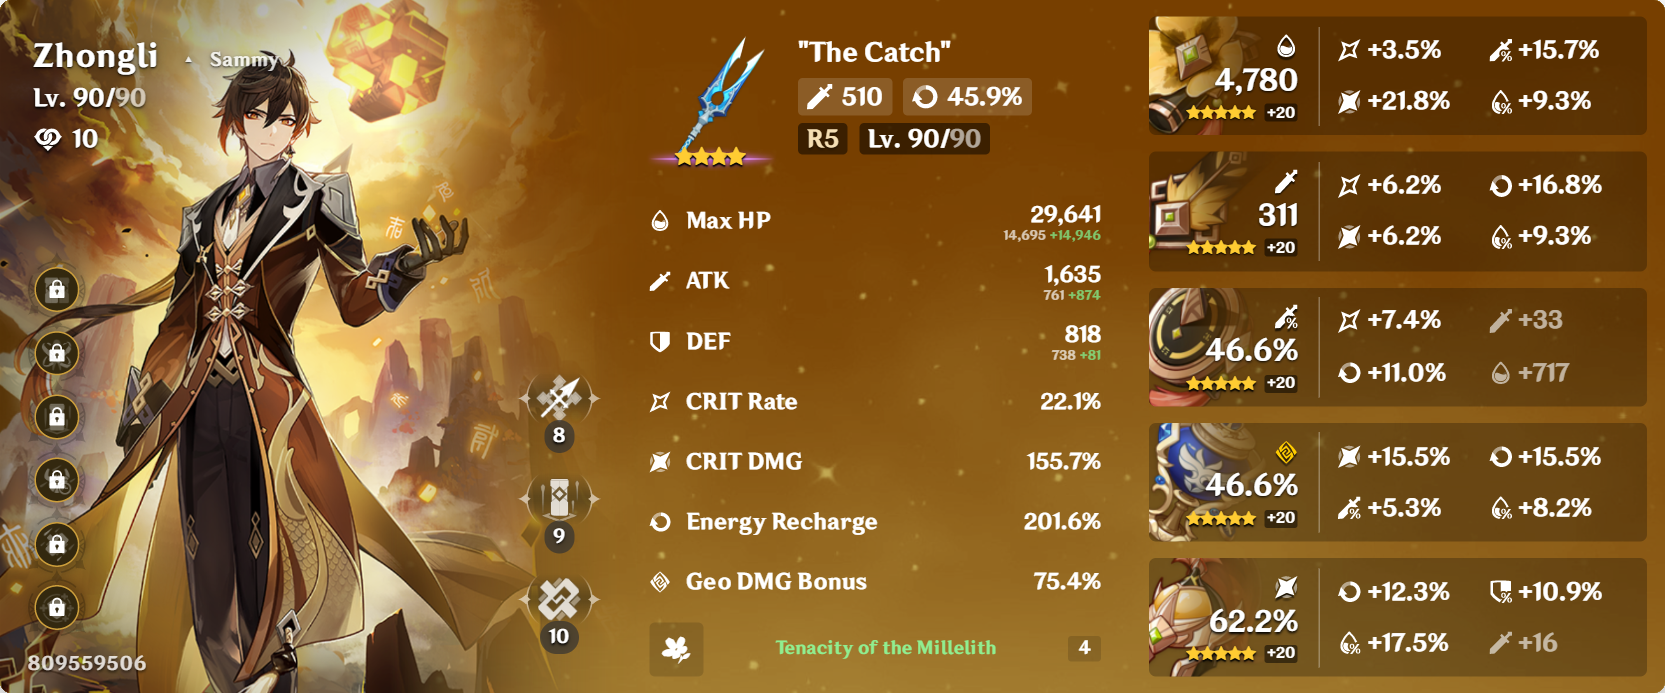
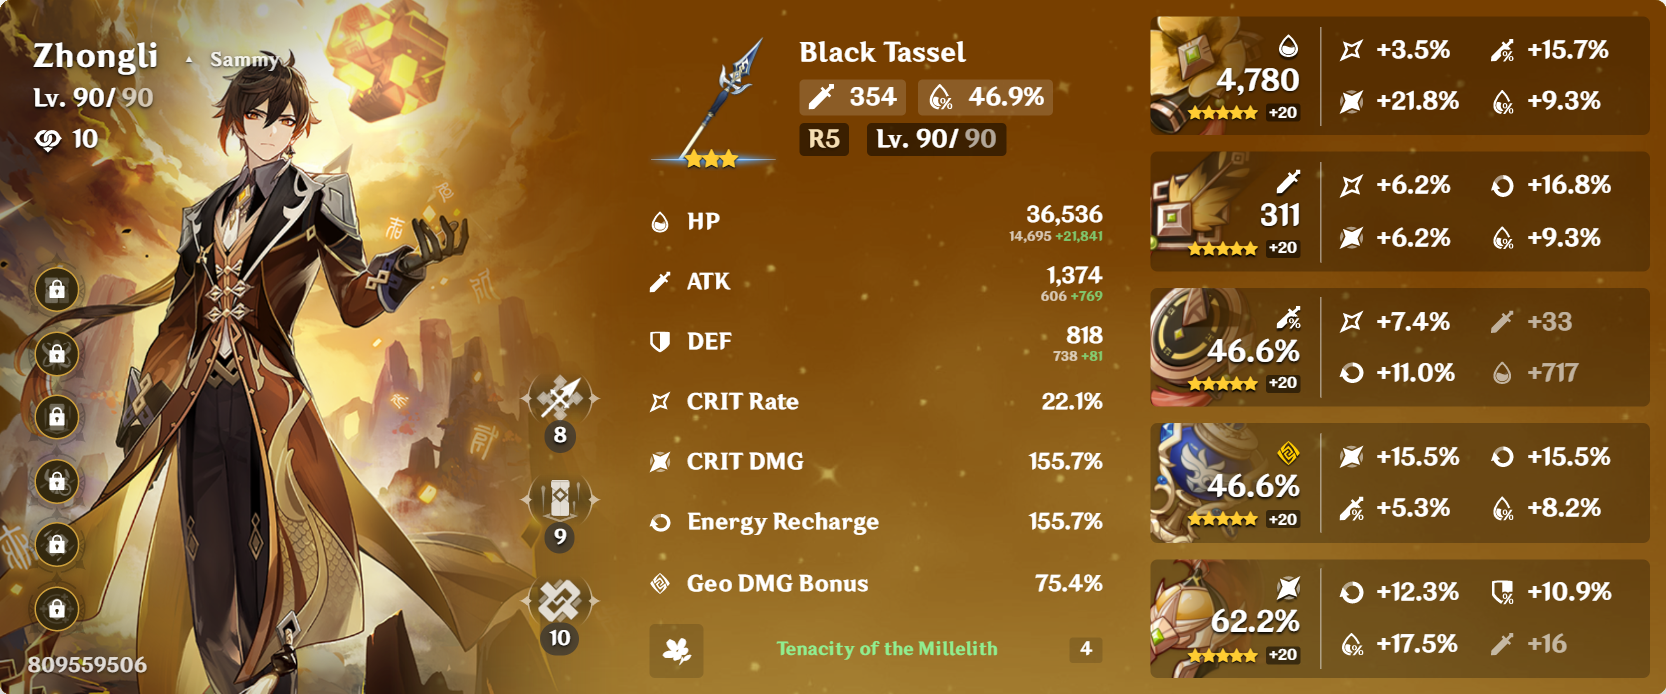
Updates
Added: Kaeya
Updated: Zhongli, Melt Diluc Team

diff --git a/README.md b/README.md
@@ -45,7 +45,7 @@ Gacha Log Export Tool - [Link Here](https://github.com/smeraldoflower/genshin-ga
 ![Dendro Driver/Support Traveler](/builds/traveler-dendro.png "Dendro Driver/Support Traveler")
 ![Hydro Sub DPS/Driver Xingqiu](/builds/xingqiu.png "Hydro Sub DPS/Driver Xingqiu")
 ![Normal ATK Buffer Yunjin](/builds/yunjin.png "Normal ATK Buffer Yunjin")
-![Geo Sub DPS/Support/Buffer Zhongli](/builds/zhongli.png "Geo Sub DPS/Support/Buffer Zhongli")
+![Geo Support/Shielder Zhongli](/builds/zhongli.png "Geo Support/Shielder Zhongli")
 
 ## Partial Builds
 <p>Characters that is not used in Abyss that much as compared to overworld. Some are not fully builded or optimized yet. Hover over to see their roles.</p>
@@ -54,6 +54,7 @@ Gacha Log Export Tool - [Link Here](https://github.com/smeraldoflower/genshin-ga
 ![Cryo Healer/Buffer Diona](/builds/diona.png "Cryo Healer/Buffer Diona")
 ![Electro Healer/Battery Dori](/builds/dori.png "Electro Healer/Battery Dori")
 ![Aggravate Sub DPS Fischl](/builds/fischl.png "Aggravate Sub DPS Fischl")
+![Cryo Sub DPS/Driver Kaeya](/builds/kaeya.png "Cryo Sub DPS/Driver Kaeya")
 ![Aggravate DPS Keqing](/builds/keqing.png "Aggravate DPS Keqing")
 ![Cryo Shielder/Support/Driver Layla](/builds/layla.png "Cryo Shielder/Support/Driver Layla")
 ![Aggravate Sub DPS/Support Lisa](/builds/lisa.png "Aggravate Sub DPS/Support Lisa")
@@ -70,7 +71,6 @@ Gacha Log Export Tool - [Link Here](https://github.com/smeraldoflower/genshin-ga
   <li>Amber</li>
   <li>Beidou</li>
   <li>Chongyun</li>
-  <li>Kaeya</li>
   <li>Mika</li>
   <li>Noelle</li>
   <li>Sayu</li>
@@ -125,7 +125,7 @@ A classic team, with Diluc as DPS and using reverse-vape with the help of Xingqi
 ### Melt Diluc
 ![Melt Diluc](/teams/melt_diluc.png "Melt Diluc")
 <br>
-Brothers in arm. Almost same twist as Vape Diluc but instead of Xingqiu, Kaeya would be the one applying Cryo on enemy. Same rotation as Vape Diluc. Use any other buffer or support in your mind too!
+Brothers in arm. Almost same twist as Vape Diluc but instead of Xingqiu, Kaeya would be the one applying Cryo on enemy. Same rotation as Vape Diluc but using Zhongli as support instead. Use any other buffer or support in your mind too!
 
 ### Star Platinum - Razor Hypercarry
 ![Razor Hypercarry](/teams/razor_hypercarry.png "Razor Hypercarry")
